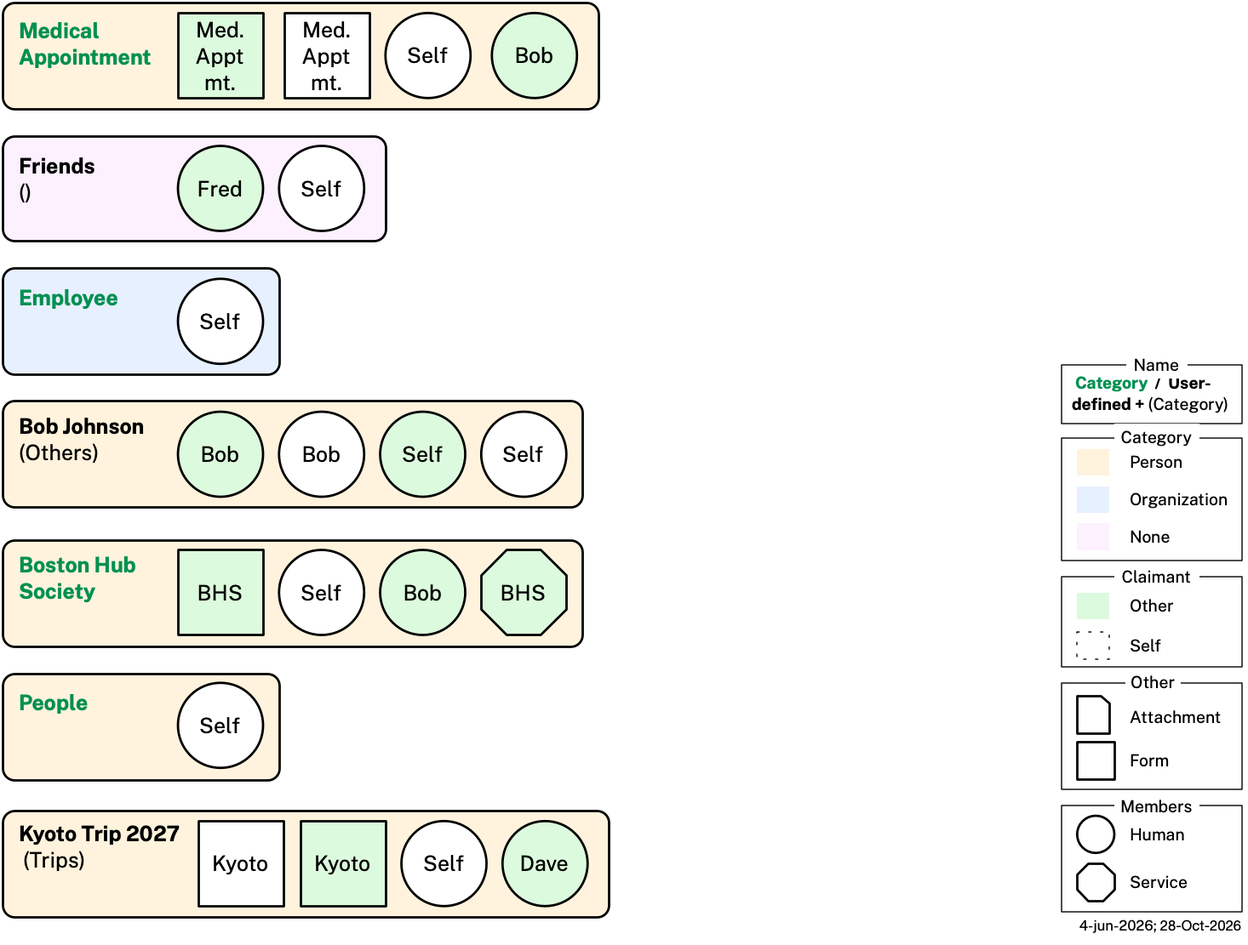
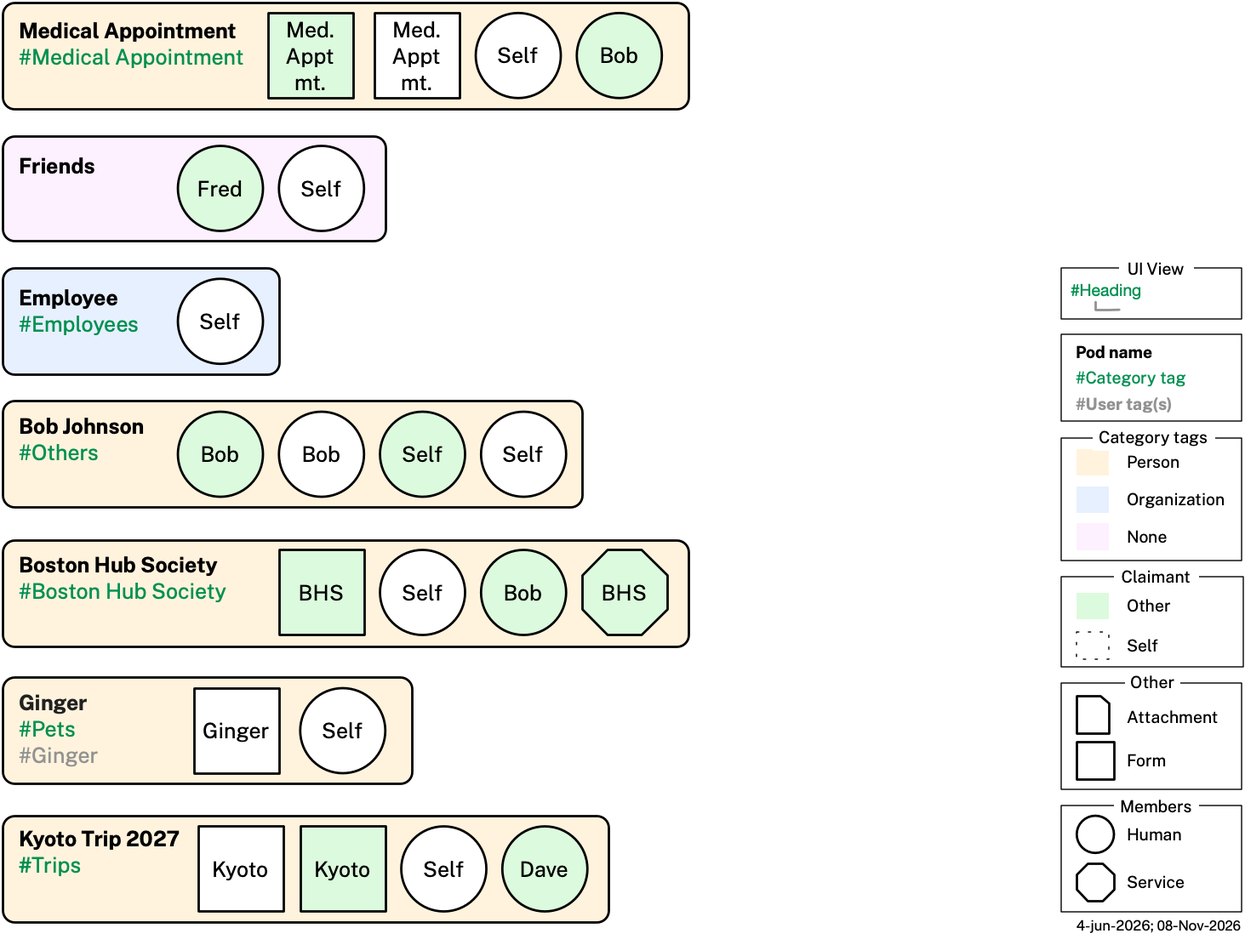
Redraw representative-pods.png in the tag-view pod-box style
The seven boxes now show a black name, a green category-tag line and grey
user tags, with the six-box legend the example diagrams use; a Ginger box
replaces the old People box. README's Representative Pods caption and
integrity.md's PNG-8, PNG-9 and PNG-11 describe the redrawn diagram, and
PNG-9's script drops its name-color columns.

diff --git a/integrity.md b/integrity.md
@@ -235,16 +235,30 @@ The split into two leaves is the diagram's substantive claim, and it is a PDN-la
 - **38e** — the class-label colors match `pod.ttl`'s `pod:abstract` annotations: `Tool` blue (`pod:abstract true`), the six leaves black (none carries it). The Key lists exactly the swatches this diagram uses — two here, since nothing in it is the green "concrete but hidden" case.
 - **38f** — no `tool` or `declaresTool` arrow is drawn *into* `Tool` here; both belong to `pod.png` (PNG-3), which shows `pod:Tool` only as a target box.
 
-**PNG-8 — `images/representative-pods.png` matches example usage**: The legend is **five separate titled boxes**, stacked in this order — "Name", "Category", "Claimant", "Other", "Members" — not the single "Key" box it once was, and it carries no "Pod" swatch at all (retired along with the member-count border styles, see README.md's Representative Pods section, which states the uniform-border rule). The identical five-box block appears in 13 diagrams (the 12 example diagrams plus `images/representative-pods.png`), so a change to it has to be applied thirteen times by hand — the same fan-out PNG-11 already warns about. Box by box: **Category** holds three fill-color swatches — Person (tan), Organization (light blue), None (purple/lavender), labeled just "None", not "None (Custom)". The fill follows PNG-1h's rule over the pod's category tag. **Name** holds a compact two-line name-text formula, "Category / User-" (green "Category", bold black "User-") / "defined + (Category)" (bold black) — green text means the pod's name equals its category tag's `skos:prefLabel` verbatim, black means it does not (shown alongside its `(Category)` parenthetical, PNG-1f), and a Custom pod's name — a pod carrying no category tag — is always black, never green, since it has no label to match. **Claimant** holds two claim-color swatches — a green-filled swatch labeled "Other" (claimed by someone other than the self) and a dashed/outlined swatch labeled "Self" (claimed by the user). Claim fill is a two-state fact and nothing more; there is no third "Delegate" fill (retired — an `s:AgentService`'s claims are green like any other non-self party's, and see PNG-10). **Other** holds two shape swatches — a document icon labeled "Attachment", standing for a pod attachment drawn in a pod box (filled green when it is a credential signed by its issuer, per PNG-10, and never counted as a graph shape, per PNG-1c), and a square labeled "Form", naming the kind of tool a square stands for, so a second tool kind gaining a shape of its own has somewhere to go. **Members** holds two — a circle labeled "Human" and an octagon labeled "Service". Splitting the two apart is what keeps the shape convention legible: a square is a graph held by a tool, while a circle or octagon is a member entry, and the circle/octagon difference is a further fact about that member's own identity type. `images/folder-mapping.png` is the one exception and keeps a single "key" box of its own. It draws folders rather than pods' graphs, so its key holds just the two folder swatches, "Folder that is a pod (category tag under Person)" and "Folder not associated with a pod", and it carries no Claimant, Other, or Members box. That is deliberate and not a discrepancy to flag (see PNG-9). **Shape**, not fill, is what distinguishes a `pod:member` graph from a tool's own graph, and among members it further distinguishes *who that member is*: a circle where the member's own `pod:subject` is a `p:Person`, an octagon where it is an `s:Service` of any kind (`s:ArcaBackup` or `s:ServiceProvider`). Fill/outline is layered on independently to show only who claimed that graph, so any of the three shapes can carry either fill — the two axes are orthogonal, and an octagon says nothing about who claimed it. The legend carries no "Pod" swatch at all any more: the member-count border-style distinction it once held (three separate "3+-Member Pod"/"2 Member Pod"/"1 Member Pod" entries, later collapsed to one uniform "Pod" swatch) was retired project-wide (see README.md's Representative Pods section, which states the uniform-border rule) — a pod's member count is no longer a visually-checkable fact anywhere in this diagram. None of the legend's names are OWL classes — `pod-categories.ttl` defines no `Folder`/`CategoryDefined`/`UserDefined` class; Custom is a display convention for a pod carrying no `pod:categoryTag`, not a class. Every circle/square carries an explicit subject-name label (e.g. "Bob", "Self", "BHS") baked directly into the shape — this is how a viewer still learns who is involved, without a separate Subject annotation. There is no "Subject" heading grouping these any more, and no blue per-box Subject text — a pod box no longer displays its subject at all, since it's derivable from the circles/squares already drawn rather than an independently stored fact (see README's Representative Pods section). This diagram illustrates representative pod/category associations — seven boxes, each with a single-line name header, fill color on the pod's own box (this diagram draws no separate folder icon at all, unlike `folder-mapping.png` — see PNG-9). None of the seven depends on nesting, but the diagram is pending redraw along with the branch diagrams (PNG-1). Six of the seven are generic, not tied to a specific example instance; the seventh, `Kyoto Trip 2027`, is drawn from real `pod-47` data:
-  - `Medical Appointment` (tan/`Person` fill, green text — the name matches its category tag `(Medical Appointment)`'s own label exactly, two squares "Med. Appt mt." — one green/Other, one white/Self, both about the same subject, demonstrating that a single topic can be claimed more than once: a tool holds one graph per member asserting it, capped at the pod's own member count (YAML-8), reached here at two — plus two circles "Self" (white) and "Bob" (green); two members)
-  - `Friends` (purple/Custom fill, black text, no category tag at all, shown as `()`, two circles: a white "Self" member — the pod's required `member` entry, per YAML-6 — and a green "Fred", since Fred is the derived subject but not a member; no squares; two members)
-  - `Employee` (light-blue/`Organization` fill, green text — the name matches its category tag `(Employee)`'s own label exactly, one white "Self" circle, no squares; one member)
-  - `Bob Johnson` (tan/`Person` fill, black text — category tag `(Others)` ≠ name, four circles — two white/Self, two green/Other, all four `pod:member` link types filled; no squares; two members)
-  - `Boston Hub Society` (tan/`Person` fill, green text — the name matches its category tag `bhscat:BostonHubSociety`'s own `skos:prefLabel` exactly, so no category parenthetical is shown (PNG-1f); the tag is an extension concept (`pod-category-ext/boston-hub-society.ttl`) rather than one of `podcat:PodCategoryScheme`'s own, and the tan Person fill still applies because it reaches `podcat:Person` through its single `skos:broadMatch podcat:Groups`, two circles and one octagon (Self white circle, Bob green circle, and a green **octagon** for the third `pod:member`, whose `pod:subject` is `:BHS_Service`, an `s:ServiceProvider`, rather than `:BHS` itself — though its claim is still attributed to the organization, which is why the fill is green/Other) plus one green square (BHS's own organization profile, held by a form tool) — illustrative only, not tied to real pod-01 data (which carries no tool at all, see YAML-4); three or more members)
-  - `People` (tan/`Person` fill, green text — no category parenthetical shown, since the category tag's label equals the name, one white "Self" circle, no squares; one member)
-  - `Kyoto Trip 2027` (tan/`Person` fill, black text — category tag `(Trips)` ≠ name; the one box drawn from real example data, `pod-47`. Two circles — "Self" (white circle) and "Dave" (green circle) — and two squares, both labeled "Kyoto" and both about the same subject `:Kyoto_Trip_2027`, one per claimant: white/Self (graph-69), green/Other (graph-91). This is the diagram's only worked example of a tool reaching its real upper bound of one graph per member, each with a distinct claimant — YAML-8; two members)
+**PNG-8 — `images/representative-pods.png` matches example usage**: This diagram illustrates seven representative pods, drawn in the same pod-box style as the 12 example diagrams (PNG-1): a bold black name, the category tag as a green `#<prefLabel>` line (PNG-1f), and any user tags as grey `#<tag>` text. Unlike them, it is not a persistent view, so it carries no view header and no group headers, and its boxes carry no `{NN}` label, six of the seven being generic rather than real example pods.
 
-  Each pod box shows no icon of any kind — no folder icon and no separate "note", "attachment", or "chat" icon (see PNG-3's `pod:note`/`pod:chat` planned-property note and its `pod:attachment` arrow, both of which concern `pod.png` only, not this diagram) — just the filled box itself. Re-verify each box's circles/squares remain a valid illustration of the properties and cardinalities described in the Pod and Graph Ontology sections of `README.md` after any change to those properties.
+Its legend is the same six titled boxes the 12 example diagrams carry, stacked in this order: "UI View", "Pod name", "Category tags", "Claimant", "Other", "Members". The identical block appears in 13 diagrams, so a change to it has to be applied thirteen times by hand, the same fan-out PNG-11 warns about. Box by box:
+
+- **UI View** holds a green `#Heading` with a grey connector, standing for a group header (PNG-1i). This diagram draws none; the box is kept so that all 13 legends stay identical.
+- **Pod name** holds the three-line pod-box formula: bold black "Pod name", green "#Category tag", grey "#User tag(s)".
+- **Category tags** holds three fill-color swatches, Person (tan), Organization (light blue) and None (purple/lavender), following PNG-1h's rule over the pod's category tag. "None" is a pod carrying no `pod:categoryTag`, a display convention and not a class.
+- **Claimant** holds two claim-fill swatches, a green "Other" (claimed by someone other than the self) and a dashed "Self" (claimed by the user). Claim fill is a two-state fact; there is no third "Delegate" fill (see PNG-10 and PNG-11).
+- **Other** holds a document icon labeled "Attachment", a pod attachment drawn in a pod box (filled green when it is a credential signed by its issuer, per PNG-10, and never counted as a graph shape, per PNG-1c), and a square labeled "Form", the kind of tool a square stands for.
+- **Members** holds a circle labeled "Human" and an octagon labeled "Service".
+
+`images/folder-mapping.png` is the one exception and keeps a single "key" box of its own. It draws folders rather than pods' graphs, so its key holds just the two folder swatches, "Folder that is a pod (category tag under Person)" and "Folder not associated with a pod" (see PNG-9).
+
+**Shape**, not fill, is what distinguishes a `pod:member` graph from a tool's own graph: a square for a tool's graph, a circle for a member whose `pod:subject` is a `p:Person`, and an octagon for a member whose `pod:subject` is an `s:Service` of any kind. Fill is layered on independently and shows only who claimed that graph, so any shape can carry either fill. Every shape carries an explicit name label (e.g. "Bob", "Self", "BHS") baked into it, which is how a viewer learns who is involved; a pod box does not display its subject, which is derivable from its shapes (see README's Representative Pods section). Pod box borders are uniform: a pod's member count is never stored and is not drawn. The seven boxes, top to bottom:
+
+  - `Medical Appointment`: tan/Person fill, green `#Medical Appointment`. Two squares "Med. Appt mt.", one green/Other and one white/Self, both about the same topic, showing that a single topic can be claimed more than once: a tool holds one graph per member, capped at the pod's own member count (YAML-8), reached here at two. Plus two circles, "Self" (white) and "Bob" (green). Two members.
+  - `Friends`: purple/None fill, no category tag and no user tag, so no tag line at all. Two circles: a green "Fred" and a white "Self" (the pod's required `member` entry, per YAML-6). No squares. Two members.
+  - `Employee`: light-blue/Organization fill, green `#Employees` (`podcat:Employees`, which reaches `podcat:Organization`). One white "Self" circle, no squares. One member.
+  - `Bob Johnson`: tan/Person fill, green `#Others`. Four circles, two white/Self and two green/Other, covering all four self/other combinations of `pod:subject` and `pod:claimant`. No squares. Two members.
+  - `Boston Hub Society`: tan/Person fill, green `#Boston Hub Society`. The tag is an extension concept (`pod-category-ext/boston-hub-society.ttl`), and the tan fill applies because it reaches `podcat:Person` through its single `skos:broadMatch podcat:Groups`. One green square (BHS's own organization profile, held by a form tool), a white "Self" circle, a green "Bob" circle, and a green **octagon** "BHS" for the member whose `pod:subject` is `:BHS_Service`, an `s:ServiceProvider`, its claim attributed to the organization behind it. Illustrative, not a copy of the real pod-01. Three or more members.
+  - `Ginger`: tan/Person fill, green `#Pets`, grey `#Ginger`, the diagram's one user tag. One white/Self square "Ginger" (the form tool's graph about the cat) and one white "Self" circle. One member.
+  - `Kyoto Trip 2027`: tan/Person fill, green `#Trips`. The one box drawn from real example data, `pod-47`. Two circles, "Self" (white) and "Dave" (green), and two squares, both labeled "Kyoto" and both about `:Kyoto_Trip_2027`, one per claimant: white/Self (graph-69) and green/Other (graph-91). This is the diagram's worked example of a tool reaching its real upper bound of one graph per member (YAML-8). Two members.
+
+  Each pod box shows no icon of any kind, no folder icon and no separate "note" or "chat" icon (see PNG-3's `pod:note`/`pod:chat` planned-property note, which concerns `pod.png` only), just the filled box itself. Re-verify each box's circles and squares remain a valid illustration of the properties and cardinalities described in the Pod and Graph Ontology sections of `README.md` after any change to those properties.
 
 **PNG-9 — a pod carries no category tag if and only if it is drawn with the Custom fill**: Every pod drawn in `images/folder-mapping.png`, `representative-pods.png` and the 12 example diagrams (PNG-1h) carries a **fill** set by its category type: tan/Person, light blue/Organization, or purple/None (Custom), from the top concept its `pod:categoryTag` value reaches. The Custom case is the one this check pins down: a pod is drawn purple **exactly when** its pod-databook carries no `tpod.categoryTag` value at all, the Custom category being identified by that absence and nothing else. A pod carrying any category tag is never purple, and a pod carrying none is never anything else. In `folder-mapping.png` the fill sits on the folder icon itself. That diagram pictures the repo's development scaffolding rather than a pod as the app holds it, which is also why it draws a Pod DataBook file, unlike the 12 example diagrams. It draws `example/Pods/` as a white folder holding two sibling pod folders, "Bob Johnson" and "Fred Flintstone" (both tag `podcat:Others`, so both tan). Fred Flintstone is expanded to show its DataBook, note file and `_pod-attachments` folder, with three attachments A, B and C. Only a folder that is a pod carries fill at all: `Pods` and `_pod-attachments` stay white, and the key names that distinction, the tan/white split being exactly the pod/not-a-pod test. Every folder name is black. The diagram carries no Custom or Organization pod, so its key lists only the tan swatch, labeled "Folder that is a pod (category tag under Person)". That is the rule for this diagram's key generally, matching PNG-3's for `pod.png`: the key lists exactly the swatches the drawing actually uses, so a swatch whose case is not drawn comes out rather than standing as an unexercised entry. This is a visual check (no automated pixel/OCR comparison), but the script below computes, for every real pod, its category tag and its label, its category type, and the fill the rule calls for, for direct cross-reference against whichever diagram box or folder is being checked. It reports `UNRESOLVED` for a tag it cannot follow to `podcat:Person` or `podcat:Organization`. Run:
 
@@ -283,7 +297,7 @@ def top_of(curie):
     return TOPS[curie]
 
 FILL = {'Person': 'tan/Person', 'Organization': 'light-blue/Organization',
-        'Custom': 'purple/Custom'}
+        'Custom': 'purple/None'}
 
 for path in sorted(glob.glob('example/Pods/**/*.databook.md', recursive=True)):
     if 'under-development' in path.split('/'):
@@ -309,14 +323,11 @@ for path in sorted(glob.glob('example/Pods/**/*.databook.md', recursive=True)):
             print(f'UNRESOLVED: {path} has a category tag that reaches no top concept: {tag}')
             continue
     tag_label = labels.get(tag, '???') if tag else None
-    text_color = 'green/Predefined' if tag and title == tag_label else 'black/UserDefined'
-    paren = tag_label if tag and tag_label != title else ''
     print(f'{title:35s} tag={tag or "(none)":45s} '
-          f'paren={"(" + paren + ")" if paren else "-":32s} '
-          f'fill={FILL[kind]:24s} text={text_color}')
+          f'label={"#" + tag_label if tag else "-":32s} fill={FILL[kind]}')
 ```
 
-If a diagram box's fill doesn't match this script's output for the corresponding pod, update `tpod.categoryTag` only if the *data* is actually wrong. Otherwise the box is what needs redrawing. The `paren` and `text` columns apply only to `representative-pods.png`, which still uses the old name-text style pending its redraw (PNG-8); the 12 example diagrams and `folder-mapping.png` draw every name black.
+If a diagram box's fill doesn't match this script's output for the corresponding pod, update `tpod.categoryTag` only if the *data* is actually wrong. Otherwise the box is what needs redrawing. No diagram colors a pod's name: every name is black, the category tag being shown on its own green line (PNG-1f), which the script's `label` column gives.
 
 **PNG-10 — a graph shape's claim-fill color matches its graph's own `claimant`**: PNG-1c settles a pod box's graph *shapes* (a circle per `member` entry, a square per tool graph) and explicitly defers their **fill** to PNG-8's legend, as "a separate, independent fact showing who claimed that graph". PNG-1h then checks only the *pod box*'s own Person/Organization/Custom fill and its name-text color. So the claim-fill of the circles and squares themselves — the one color that encodes `pod:claimant` — was defined but verified nowhere, in any of the 12 diagrams. This check closes that gap. The rule, per PNG-8's legend, is a three-way partition of every drawn graph shape, decided entirely by that graph's own `claimant`:
 
@@ -447,7 +458,7 @@ print('Every diagram\'s claim-fill colors match their graphs\' own claimants.'
 
 If a violation is found, the diagram is the authoritative side for *which pods and shapes exist* (PNG-1), but the DataBook is authoritative for *who claimed a graph* — a `claimant` is a fact about the data, not a drawing choice. So recolor the shape to match its graph's own `claimant` under the three-way rule above. A count that is short by one green usually means a non-`:Self`-claimed shape was left unfilled; a count long by one usually means a `:Self`-claimed shape was filled. The check reports counts rather than naming the offending shape, since matching a specific circle to a specific graph number would require reading the diagram's own `[NN]` labels; with per-diagram counts the candidates are few enough to spot by eye.
 
-**PNG-11 — no diagram still carries the retired "Delegate" legend swatch**: The 12 example diagrams plus `images/representative-pods.png` each carry their own copy of the legend, so a change to it has to be applied thirteen times by hand. (`images/folder-mapping.png` is also scanned below, but carries a key of its own, two folder swatches, rather than this legend.) That legend is now five separate titled boxes — "Name", "Category", "Claimant", "Tool", "Members" — rather than the single "Key" box it once was (see PNG-8 for the full box-by-box contents); the ones that matter here are **Claimant**, holding two claim-fill swatches (green "Other", dashed "Self"), **Tool**, holding one shape swatch (square "Form"), and **Members**, holding two (circle "Human", octagon "Service"); it no longer holds the gray "Delegate" swatch that a third claim-fill state once needed (see PNG-8 and PNG-10 — claim fill is now a two-state self/not-self fact, and a member's identity type is carried by shape instead). A diagram left on the older key is mechanically detectable, because that swatch is the only place a filled `(235, 235, 235)` block of any size appears: the new key uses no gray at all, and the incidental gray in these PNGs is antialiasing a few dozen pixels in size, far below the threshold below. This catches the stale-legend case that PNG-10 cannot — PNG-10 compares fills against the DataBooks and so passes happily on a diagram whose *shapes* are all correct but whose *legend* still advertises a retired state. Requires `pip install pillow`. Run:
+**PNG-11 — no diagram still carries the retired "Delegate" legend swatch**: The 12 example diagrams plus `images/representative-pods.png` each carry their own copy of the legend, so a change to it has to be applied thirteen times by hand. (`images/folder-mapping.png` is also scanned below, but carries a key of its own, two folder swatches, rather than this legend.) That legend is six titled boxes, "UI View", "Pod name", "Category tags", "Claimant", "Other" and "Members" (see PNG-8 for the full box-by-box contents). The ones that matter here are **Claimant**, holding two claim-fill swatches (green "Other", dashed "Self"), **Other**, holding the "Attachment" document icon and the square "Form", and **Members**, holding a circle "Human" and an octagon "Service"; it no longer holds the gray "Delegate" swatch that a third claim-fill state once needed (see PNG-8 and PNG-10 — claim fill is now a two-state self/not-self fact, and a member's identity type is carried by shape instead). A diagram left on the older key is mechanically detectable, because that swatch is the only place a filled `(235, 235, 235)` block of any size appears: the current legend has no gray fill, its grey `#User tag(s)` text and `#Heading` connector being a darker grey and thin, and the incidental `(235, 235, 235)` in these PNGs is antialiasing a few dozen pixels in size, far below the threshold below. This catches the stale-legend case that PNG-10 cannot — PNG-10 compares fills against the DataBooks and so passes happily on a diagram whose *shapes* are all correct but whose *legend* still advertises a retired state. Requires `pip install pillow`. Run:
 
 ```python
 from PIL import Image
@@ -502,7 +513,7 @@ print('No diagram carries the retired Delegate swatch.' if violations == 0
       else f'{violations} violation(s) found.')
 ```
 
-If a violation is found, the diagram is still on an older legend and needs it replaced with the current five-box block (PNG-8): drop the gray "Delegate" swatch, and make sure the square swatch sits in its own "Tool" box labeled "Form" while the "Members" box's shape swatches read "Human" (circle) and "Service" (octagon) rather than a single "Member" circle. A gray region far from the legend column is the other possibility — a graph shape still filled with the retired Delegate color, which PNG-10 will also flag as a count mismatch. Note the limit: this detects the *absence* of the retired swatch, not the *presence* of the correct new one, since reading swatch labels and telling a circle from an octagon would need text and shape recognition rather than exact-color sampling. The circle/octagon distinction stays a visual check for the same reason (see PNG-1c).
+If a violation is found, the diagram is still on an older legend and needs it replaced with the current six-box block (PNG-8): drop the gray "Delegate" swatch, and make sure the square swatch sits in the "Other" box labeled "Form" while the "Members" box's shape swatches read "Human" (circle) and "Service" (octagon) rather than a single "Member" circle. A gray region far from the legend column is the other possibility — a graph shape still filled with the retired Delegate color, which PNG-10 will also flag as a count mismatch. Note the limit: this detects the *absence* of the retired swatch, not the *presence* of the correct new one, since reading swatch labels and telling a circle from an octagon would need text and shape recognition rather than exact-color sampling. The circle/octagon distinction stays a visual check for the same reason (see PNG-1c).
 
 ## TTL — triple checks
 

diff --git a/README.md b/README.md
@@ -278,9 +278,7 @@ The diagram below shows seven representative pods.
 
 <p align="center"><img src="images/representative-pods.png" alt="Pods, categories, and graphs"></p>
 
-The diagram predates flat pods and is pending a redraw: it still draws some pods inside others, which the model does not allow, so read each box as an independent pod and disregard its placement. Pods do not nest; what relates them is the tags they carry.
-
-Each pod's fill color and pod name text color follow a display convention rooted in the pod's own DataBook — see [Scaffolding: This Repo's Filesystem Tree](app-behavior.md#scaffolding-this-repos-filesystem-tree) in app-behavior.md for the full rules. In short, fill follows the top concept (`podcat:Person` or `podcat:Organization`) that the pod's category tag reaches: tan for `People`/`Bob Johnson`/`Boston Hub Society`/`Medical Appointment`/`Kyoto Trip 2027` (Person-rooted), light blue for `Employee` (Organization-rooted), purple for `Friends` (no category tag at all, Custom). `Bob Johnson`'s category tag is `podcat:Others`, so its name doesn't match its category tag's label and is shown in black text, while `People`'s name matches its tag's label and is shown in green. This is purely a display choice about the pod's own DataBook box and name, not a separate RDF property.
+Each pod box shows the pod's name in bold black, its category tag as a green `#label` line, and any user tags as grey `#tag` text. The box's fill follows the top concept (`podcat:Person` or `podcat:Organization`) that the pod's category tag reaches: tan for a Person-rooted tag, light blue for an Organization-rooted one, and purple for a pod with no category tag at all. A category extension's concept reaches a top concept through its `skos:broadMatch`. Fill and tag lines are display choices drawn from the pod's own tags, not separate RDF properties; see [Scaffolding: This Repo's Filesystem Tree](app-behavior.md#scaffolding-this-repos-filesystem-tree) in app-behavior.md for the same fill convention on this repo's folders. Each box is an independent pod: pods do not nest, and the diagram's vertical order means nothing.
 
 Regular pods contain one or more circles that represent structured information about the pod members. A pod carrying a form tool also contains a square, holding structured information about whatever that tool is about — a non-member person, an organization, or anything else.
 
